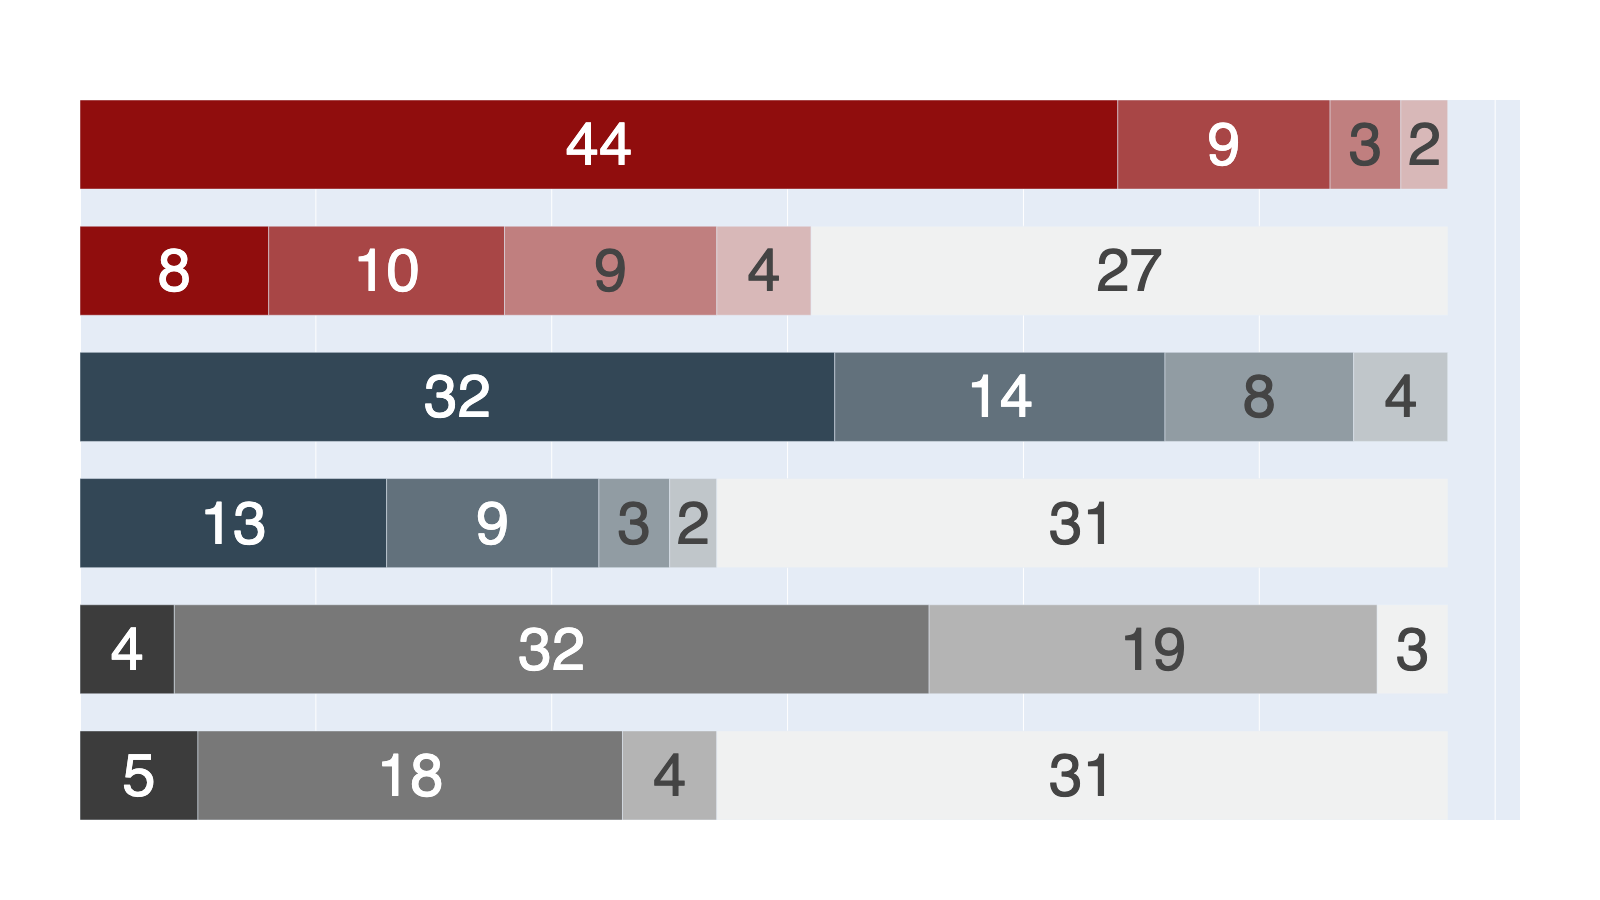
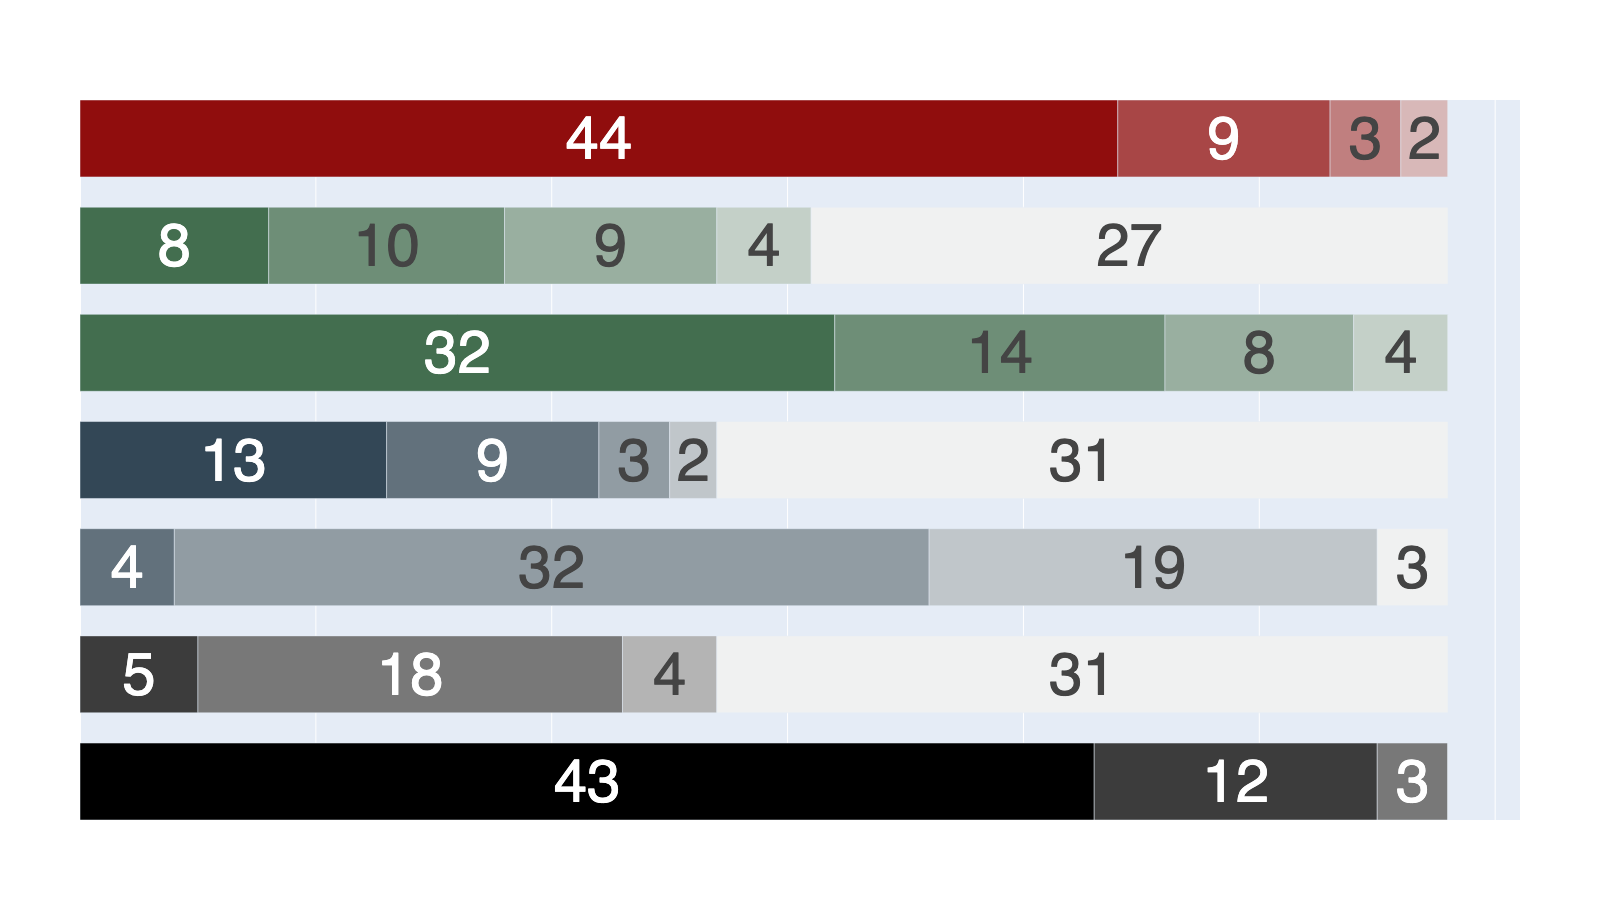
Full Base_quickcheck support

diff --git a/experiments/ocaml-experiments/Main.py b/experiments/ocaml-experiments/Main.py
@@ -7,9 +7,9 @@ import Analysis
 # script to do the collection, parsing, and analysis all in one
 
 WORKLOADS = [
-    'BST',
+    # 'BST',
     # 'RBT',
-    # 'STLC',
+    'STLC',
 ]
 
 STRATEGIES: list[PBTGenerator] = [
@@ -19,8 +19,8 @@ STRATEGIES: list[PBTGenerator] = [
     # PBTGenerator('crowbar', 'type'),
     # PBTGenerator('afl', 'bespoke'),
     # PBTGenerator('afl', 'type'),
-    # PBTGenerator('base', 'bespoke'),
-    PBTGenerator('base', 'type'),
+    PBTGenerator('base', 'bespoke'),
+    # PBTGenerator('base', 'type'),
 ]
 
 

diff --git a/experiments/ocaml-experiments/Analysis.py b/experiments/ocaml-experiments/Analysis.py
@@ -4,7 +4,7 @@ from benchtool.Plot import *
 from functools import partial
 
 # use this to adjust which plots are generated
-WORKLOADS = ['BST']  # , 'RBT', 'STLC']
+WORKLOADS = ['STLC']  # , 'RBT', 'STLC']
 STRATEGIES = [
     'qcheckBespoke',
     'qcheckType',
@@ -13,7 +13,7 @@ STRATEGIES = [
     'aflBespoke',
     'aflType',
     'baseBespoke',
-    'baseType',
+    # 'baseType',
 ]
 
 
